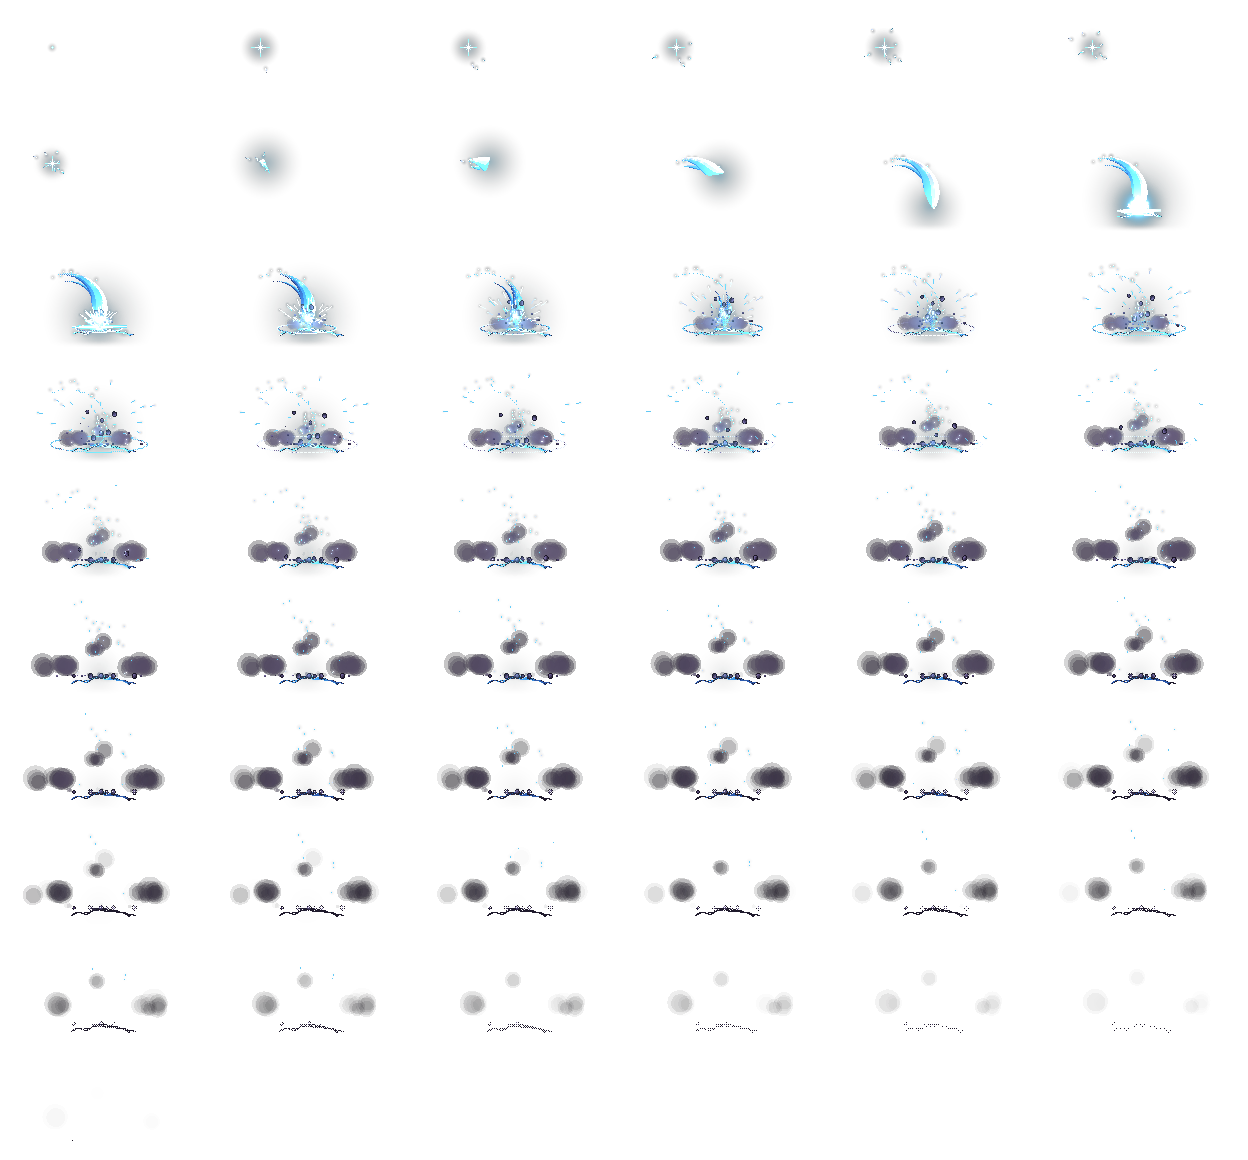
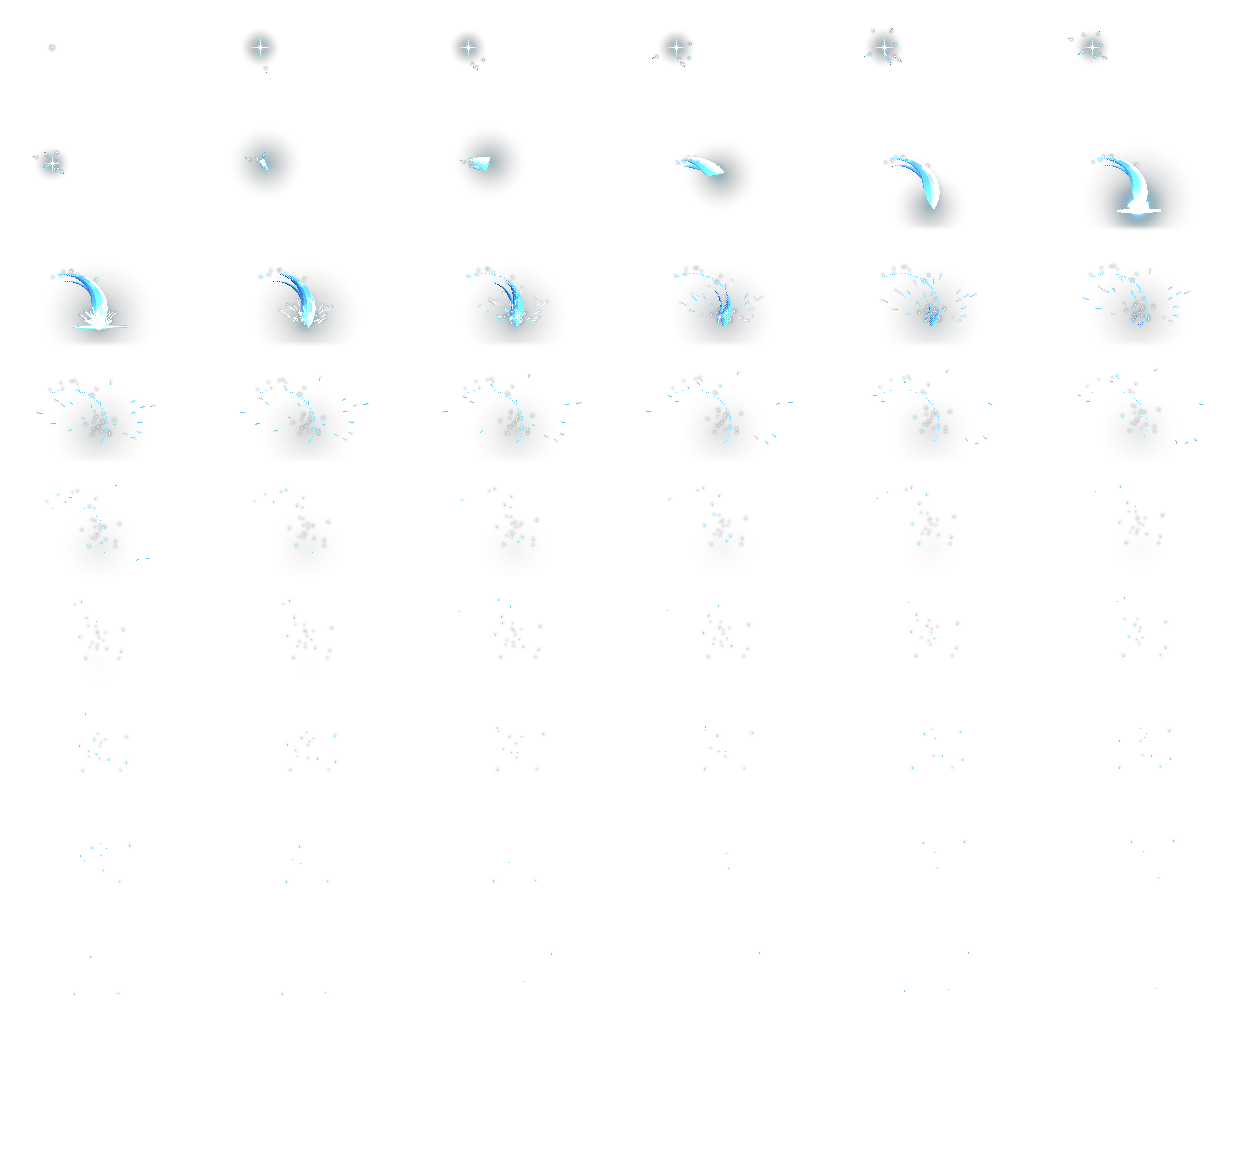
依第二次試玩調整三連擊；重劈拿掉碎裂地板
- 連按時 0.3 秒接下一擊（單按仍 0.24 秒收刀，預約後停在出刀姿勢等著接）
- 命中停頓 0.13 秒（收尾重劈 0.15 秒）
- 前兩擊擊退減半，三擊都打得到同一隻妖怪
- 新增 tools/pixelfx/melee/clean-cleave.js：heavy-cleave 拿掉裂痕、焦痕、地面震波、碎石與揚塵，build_fx.py 匯出時自動帶入

diff --git a/tools/pixelfx/melee/clean-cleave.js b/tools/pixelfx/melee/clean-cleave.js
@@ -1,0 +1,158 @@
+// The crescent and its cooling ramp are adapted from Sprite Fusion's open-source slash
+// (https://www.spritefusion.com/pixel-art-vfx/slash), and the impact star, dust, grit and embers from his
+// impact and explosion (https://www.spritefusion.com/pixel-art-vfx), MIT License, Copyright (c) 2026 Hugo Duprez.
+// Derived from pixelfx's melee/heavy-cleave for The Last Wanderer: the same arc, slam star and sparks,
+// without the cracked floor (cracks, scorch, the shock running along the floor, dust, grit and thrown stones).
+import { Particles, Bits, Lights, P, PF, B, Rng, fit, sparkle, band, clamp, smooth, ease, rand, TAU, WHITE, READY } from "../../core/index.js";
+import { swing, onSwing, smear, trace, glowAlong, stone, rock, cracks, star, sliver, along } from "./_lib.js";
+
+export const meta = {
+  name: "Clean cleave",
+  desc: "Heavy cleave without the cracked floor: a glint over the head, a thick arc over the top into the floor, a white slam, sparks and rising embers.",
+  tags: ["melee", "slash", "cleave", "axe", "heavy", "ground", "fire", "combat", "directional", "one-shot"],
+  size: [208, 116],
+  origin: [68, 96],
+  duration: 1.9,
+  loop: false,
+  fps: 30,
+  bg: "ground",
+  actor: 2,
+  options: {
+    palette: ["#2a0c10", "#5c1414", "#a3241a", "#e0481c", "#ff8a2a", "#ffc23d", "#fff0a0", "#ffffff"],
+    stone: "#4a3f69",
+    seed: 5,
+  },
+};
+
+const REST_ = { ...READY, weapon: "greatsword", two: true, sa: -1, fx: 11, fy: -21 };
+const OVER = { ...REST_, x: -4, crouch: 2, lean: -2, fx: 1, fy: -42, sa: -2.45, ffx: 8, fbx: -7 };
+const FLOOR = { ...REST_, x: 0, crouch: 7, lean: 6, fx: 17, fy: -21, sa: 0.72, ffx: 11, fbx: -10, toeB: true };
+export const act = {
+  target: { x: 66 },
+  poses: [
+    [-0.42, { ...REST_, x: -4 }],
+    [-0.3, { ...REST_, x: -3, crouch: 4, fx: 13, fy: -29, sa: -1.3 }],
+    [-0.12, { ...OVER, crouch: 4 }],
+    [0.2, { ...OVER, crouch: 3 }],
+    [0.27, { ...REST_, x: -1, y: -2, crouch: 0, lean: 2, fx: 11, fy: -42, sa: -1.45, ffx: 10, ghost: 1 }, "snap"],
+    [0.31, { ...REST_, x: 0, y: -1, crouch: 3, lean: 4, fx: 18, fy: -33, sa: -0.45, ffx: 12, ghost: 1 }, "snap"],
+    [0.335, FLOOR, "snap"],
+    [0.85, { ...FLOOR, crouch: 6, lean: 5 }],
+    [1.3, { ...REST_, x: -2, crouch: 4, lean: 2, fx: 15, fy: -23, sa: 0.1 }],
+    [1.7, { ...REST_, x: -4 }],
+  ],
+  hits: [{ t: 0.335, stop: 0.2, shake: 0.34, amp: 3, push: 3.2, straw: 28, y: -8 }],
+  dust: [{ t: 0.335, x: 18, n: 8, dir: 1 }, { t: 0.335, x: -12, n: 5, dir: -1 }],
+};
+
+const RAISE = 0.2; // the glint over the head
+const SWING = 0.135; // the arc accelerates over the top
+const HIT = RAISE + SWING;
+const HOLD = 0.05, TRAIL = 0.22;
+const head = (t) => ease.inQuad(clamp((t - RAISE) / SWING)); // fraction of the arc the edge has made
+const passedAt = (f) => RAISE + SWING * Math.sqrt(clamp(f)); // when the edge passed fraction f
+
+export function create(o) {
+  const C = fit(o.palette, 8), n = C.length, R = new Rng(o.seed), st = stone(o.stone), floor = () => 0;
+  const ps = new Particles({ rng: R, ground: floor, sparks: [C[6], C[5], C[4], C[3]] }), bits = new Bits({ ground: floor }), lights = new Lights();
+  // the arc: from behind the head, over the top, down into the floor in front
+  const A = swing({ cx: 3, cy: -22, R: 37, sy: 0.88, rot: 0.32, a0: -2.45, dir: 1 });
+  let U1 = 0;
+  while (onSwing(A, A.R, U1)[1] < -0.5 && U1 < 4) U1 += 0.005;
+  const E = { ...A, R: A.R * 0.76 }, W = 16, WE = 5;
+  const [X] = onSwing(A, A.R - 2, U1), GLINT = onSwing(A, A.R - 3, 0);
+  const lines = cracks(R, X, 4, 40, 7, 0.4);
+  // the impact star: long spikes along the floor, shorter ones up
+  const spikes = [-Math.PI, -2.7, -2.15, -1.62, -1.05, -0.45, 0].map((a, i) => ({ a: a + R.range(-0.08, 0.08), len: (i === 0 || i === 6 ? 20 : i === 3 ? 15 : 9) + R.range(0, 4), w: 1.6 + R.range(0, 0.6) }));
+  const shards = [-2.5, -1.9, -1.2, -0.6].map((a) => ({ a: a + R.range(-0.15, 0.15), r: 8 + R.range(0, 3), v: R.range(80, 130), arc: R.range(0.35, 0.6) }));
+  let t = 0, hit = false;
+
+  const arc = (p, s, w0, lag, rim) => {
+    const tt = t - lag, U = U1 * head(tt), T = U1 * smooth(HIT + HOLD, HIT + HOLD + TRAIL, tt);
+    if (U < 0.02 || T >= U - 0.02) return;
+    const gone = smooth(HIT + HOLD, HIT + HOLD + TRAIL, tt), shrink = 1 - 0.75 * gone;
+    smear(p, s, T, U, w0, (u, r, out) => {
+      const age = Math.max(0, tt - passedAt(u / U1)), v = (u - T) / (U - T);
+      const w = w0 * shrink * Math.pow(Math.sin(Math.PI * Math.pow(v, 2.2)), 0.6);
+      if (w < 0.4) return;
+      const q = (s.R - r) / w;
+      if (q < 0 || q > 1) return;
+      const ci = rim && q < 0.22 && age < 0.12 ? 0 : Math.round(q * (n - 1) * 0.62 + age * 7 + Math.max(0, tt - HIT) * 10 - v * 0.8 + (rim ? 0.7 : 1.7));
+      out.c = C[n - 1 - clamp(ci, 0, n - 1)];
+      out.a = Math.min(1, v / 0.35) * (1.2 - gone);
+    });
+    if (rim) glowAlong(p, s, s.R - w0 * 0.4, T, U, 7 + w0 * 0.5, C[4], (u) => 0.26 * Math.exp(-Math.max(0, tt - passedAt(u / U1)) / 0.2) * ((u - T) / (U - T)));
+  };
+
+  return {
+    update(dt) {
+      t += dt;
+      // heat gathers to the raised blade
+      if (t < RAISE - 0.04 && R.chance(0.35)) {
+        const a = R.range(0, TAU), D = R.range(14, 26), T = R.range(0.14, 0.2), v = (D * 3) / (Math.exp(3 * T) - 1);
+        ps.spawn(P.STREAK, GLINT[0] + Math.cos(a) * D, GLINT[1] + Math.sin(a) * D, -Math.cos(a) * v, -Math.sin(a) * v, T, R.chance(0.5) ? C[5] : C[4]);
+      }
+      // embers shed off the edge as it comes over
+      if (t > RAISE && t < HIT && R.chance(0.7)) {
+        const u = U1 * head(t) * R.range(0.6, 1), [x, y] = onSwing(A, A.R - R.range(0, 6), u);
+        ps.spawn(P.EMBER, x, y, R.range(-20, 20), R.range(-40, -10), R.range(0.5, 1.1), C[4], R.range(1, 2));
+      }
+      if (!hit && t >= HIT) {
+        hit = true;
+        lights.add(X, -6, 26, WHITE, 0.9, 0.1);
+        lights.add(X, -12, 64, C[4], 0.5, 0.8);
+        // sparks fan up off the floor, most of them forward
+        for (let i = 0; i < 26; i++) {
+          const a = -Math.PI / 2 + R.range(-1.2, 1.35), sp = R.range(140, 360);
+          ps.spawn(P.SPARK, X, -1, Math.cos(a) * sp, Math.sin(a) * sp - 40, R.range(0.15, 0.5));
+        }
+        // embers lift off the cut
+        for (let i = 0; i < 16; i++) ps.spawn(P.EMBER, X + R.range(-8, 8), -R.range(1, 6), R.range(-50, 60), -R.range(30, 110), R.range(0.7, 1.5), C[4], R.range(1, 2));
+      }
+      bits.update(dt);
+      for (const b of bits.list)
+        if (b.rest && !b.dusted) {
+          b.dusted = true;
+          for (let i = 0; i < 2; i++) ps.spawn(P.DUST, b.x + R.range(-1.5, 1.5), -0.5, R.sign() * R.range(8, 30), -R.range(2, 12), R.range(0.3, 0.6), st.dust, R.range(1.3, 2.4));
+        }
+      ps.update(dt);
+      lights.update(dt);
+    },
+    drawBack(p) {
+      ps.draw(p, "back");
+    },
+    draw(p) {
+      const q = t - HIT;
+      // the glint over the head: the raised blade catching the light
+      if (t < RAISE + 0.03) {
+        const g = ease.outBack(clamp(t / 0.1)) * (1 + 0.15 * Math.sin(t * 60)) * (t > RAISE ? 1 - (t - RAISE) / 0.03 : 1);
+        sparkle(p, GLINT[0], GLINT[1], 1 + 7 * g, C[6], C[4], 0.5);
+        p.glow(GLINT[0], GLINT[1], 22, C[4], 0.3 * g);
+      }
+      // the arc and its echo, then a dotted trace of embers where it has been
+      arc(p, E, WE, 0.02, false);
+      arc(p, A, W, 0, true);
+      const tail = U1 * smooth(HIT + HOLD, HIT + HOLD + TRAIL, t), th = 0.8 * (1 - clamp((t - HIT - HOLD) / (TRAIL + 0.25)));
+      if (tail > 0.02 && th > 0) trace(p, A, A.R - 0.5, 0, tail, C[3], (u) => th * (0.4 + 0.6 * u / U1));
+      if (t > RAISE && t < HIT + 0.05) {
+        const [x, y] = onSwing(A, A.R - 5, U1 * head(t));
+        p.glow(x, y, 40, C[4], 0.5);
+      }
+      // the white slam: an impact star flat on the floor, then slivers flying off and a hot pool
+      if (q >= 0 && q < 0.035) star(p, X, -1, spikes, 1, 1, WHITE, C[6], C[7], C[5]);
+      else if (q >= 0.035 && q < 0.07) star(p, X, -1, spikes, 1.25, 0.55, C[7], C[6], C[6], C[4]);
+      if (q >= 0.05 && q < 0.16) {
+        const k = (q - 0.05) / 0.11;
+        for (const s of shards) sliver(p, X, -1, s.a, s.r + s.v * (q - 0.05), s.arc * (1 - 0.4 * k), k < 0.4 ? C[6] : k < 0.7 ? C[5] : C[4], 1 - k);
+      }
+      if (q >= 0 && q < 0.2) {
+        const pop = Math.exp(-q / 0.05);
+        p.glow(X, -6, 30, C[5], 0.8 * pop);
+        p.glow(X, -2, 10, WHITE, 0.7 * pop);
+      }
+      for (const b of bits.list) rock(p, b, st);
+      ps.draw(p, "front");
+      lights.draw(p);
+    },
+  };
+}

diff --git a/js/entities/Player.js b/js/entities/Player.js
@@ -31,12 +31,13 @@ const PLAYER_CONFIG = Object.freeze({
   // 橫斬連段：揮刀中再按 J 預約下一擊，最多三段；不再按就在該段結束時收刀
   comboDuration: 0.24,     // 第一、二擊的長度（上劈、下劈仍是 attackDuration）
   comboInputStart: 0.05,   // 揮刀多久後開始接受下一擊的輸入
-  comboChainTime: 0.19,    // 預約後最早在這個時間點接上下一擊
+  comboChainTime: 0.3,     // 連按時在這個時間點接上下一擊（比單按的收刀晚，預約了就停在出刀姿勢等著接）
   comboWindow: 0.3,        // 收刀後仍可接續下一擊的時間
   attackBufferTime: 0.25,  // J 的輸入緩衝（命中停頓期間按下也不會漏掉）
   finisherDuration: 0.44, finisherWindow: [0.09, 0.21], finisherCooldown: 0.55,   // 重劈後多停一下，壓低身子收勢
   finisherDamage: 2, finisherBox: { width: 84, height: 64, offsetY: 6 },
   finisherStep: [0.07, 0.15], finisherStepSpeed: 230, finisherKnockback: 1.7,
+  comboKnockback: 0.5,     // 前兩擊的擊退減半，敵人留在下一擊的範圍內
   attackBox: { width: 64, height: 60, offsetY: 8 },
   // 上劈 / 下劈：判定時間與判定框（相對於角色中心與頭頂）
   attackWindows: { side: [0.04, 0.16], up: [0.06, 0.2], down: [0.04, 0.24] },
@@ -310,7 +311,7 @@ class Player extends Entity {
       }
       if (this.comboQueued && this.stateTime >= cfg.comboChainTime) {
         this._beginAttack(this.comboStep + 1, move, game);
-      } else if (this.stateTime >= (this.isFinisher() ? cfg.finisherDuration : this.comboStep > 0 ? cfg.comboDuration : cfg.attackDuration)) {
+      } else if (!this.comboQueued && this.stateTime >= (this.isFinisher() ? cfg.finisherDuration : this.comboStep > 0 ? cfg.comboDuration : cfg.attackDuration)) {
         this._endAttack();
         // 揮刀結束時仍按住 J → 進入蓄力（需取得「居合之卷」）
         if (!locked && this.abilities.chargeSlash && input.isDown('attack')) this._startCharge(game);

diff --git a/js/Game.js b/js/Game.js
@@ -246,7 +246,7 @@ class Game {
 
   /** heavy：連段收尾、螺旋斬最後一斬，改用較大的爆擊火花 */
   onEnemyHit(enemy, killed, direction = this.player.facing, { damage = 1, heavy = false } = {}) {
-    this.hitstop = killed ? 0.11 : 0.07;
+    this.hitstop = 0.13;
     this.camera.shake(killed ? 4 : 2.5, 0.15);
     const hx = direction > 0 ? enemy.x : enemy.x + enemy.width;
     const spark = this.fx.play(heavy ? 'crit' : 'hitSpark', hx, enemy.centerY, { flipX: direction < 0 });

diff --git a/js/systems/Combat.js b/js/systems/Combat.js
@@ -34,6 +34,9 @@ const Combat = {
           game.hitstop = Math.max(game.hitstop, 0.1);
           game.camera.shake(5, 0.2);
         }
+        if (player.state === PLAYER_STATES.ATTACK && player.comboStep > 0 && !player.isFinisher()) {
+          enemy.velocityX *= player.cfg.comboKnockback;
+        }
         if (player.isFinisher()) {
           // 連段收尾：擊退更遠、停頓更久
           enemy.velocityX *= player.cfg.finisherKnockback;

diff --git a/data/fxsheets.js b/data/fxsheets.js
@@ -67,7 +67,7 @@ window.FX_SHEETS = {
       68,
       96
     ],
-    "source": "melee/heavy-cleave",
+    "source": "melee/clean-cleave",
     "hits": [
       {
         "t": 0.335,

diff --git a/tools/build_fx.py b/tools/build_fx.py
@@ -6,6 +6,7 @@
     python tools/build_fx.py <pixelfx 資料夾>
 
 要換特效、換色或增減連擊數，改下面的 SHEETS 後重新執行即可。
+tools/pixelfx/ 裡是本專案自己修改過的 pixelfx 特效，匯出前會先複製進 pixelfx 的 src/fx/。
 """
 import json, os, shutil, subprocess, sys, tempfile
 
@@ -22,7 +23,7 @@ GOLD = ["#1a1205", "#3d2a0a", "#70501a", "#b08a2f", "#f5c84c", "#ffe3a8", "#fff4
 SHEETS = {
     'slash': ('melee/sword-slash', {}),                    # 三連擊第一擊：斜劈；轉 90 度成上劈 / 下劈
     'cross': ('melee/double-slash', {'palette': ICE}),     # 三連擊第二擊：交叉雙斬（換成冰藍色）
-    'cleave': ('melee/heavy-cleave', {'palette': ICE}),    # 三連擊第三擊：雙手重劈（換成冰藍色）
+    'cleave': ('melee/clean-cleave', {'palette': ICE}),    # 三連擊第三擊：雙手重劈（拿掉碎裂地板的版本，換成冰藍色）
     'hitSpark': ('impacts/hit-spark', {}),
     'crit': ('impacts/crit-hit', {}),                      # 收尾、螺旋斬最後一斬
     'parry': ('impacts/parry', {}),                        # 一般攻擊砍到冰壁
@@ -31,6 +32,13 @@ for n in (1, 2):
     SHEETS[f'dmg{n}'] = ('ui/damage-number', {'text': f'-{n}'})
 for n in range(2, 21):
     SHEETS[f'combo{n}'] = ('ui/combo-counter', {'count': n, 'palette': GOLD}, 20)   # 20 fps：檔案小一點
+
+# 本專案修改過的特效（tools/pixelfx/<分類>/<名稱>.js）
+CUSTOM = os.path.join(GAME, 'tools', 'pixelfx')
+for root, _, files in os.walk(CUSTOM):
+    for f in files:
+        rel = os.path.relpath(os.path.join(root, f), CUSTOM)
+        shutil.copy(os.path.join(root, f), os.path.join(PFX, 'src', 'fx', rel))
 
 shutil.rmtree(OUT, ignore_errors=True)
 dst_dir = os.path.join(GAME, 'assets', 'fx')

diff --git a/README.md b/README.md
@@ -85,8 +85,10 @@ python serve.py
 - **表現**：程序化像素美術、多層視差背景、寒霧、飄雪、粒子、Web Audio 合成音效與風聲
 - **pixelfx 特效**（[patch-gg/pixelfx](https://github.com/patch-gg/pixelfx)，MIT）：
   - 三連擊的動作取自 pixelfx 的 `moves/sword-combo`：斜劈、交叉雙斬、雙手重劈。姿勢由 `node tools/sample_combo.mjs <pixelfx 資料夾>` 取樣到 `data/swordcombo.js`，在 `js/art/Sprites.js` 的 `comboPose()` 放大 2 倍轉套到劍客身上（另用 240×160 的畫格）
-  - 節奏：`Player.js` 的 `COMBO_TIMING` 只取 pixelfx 時間軸上「刀舉到最高 → 出刀後停住」那一段，壓縮到遊戲的「開始、判定開始、收刀」；第一、二擊 0.24 秒（0.19 秒後可接下一擊）、收尾重劈 0.44 秒，劍客原地揮刀不前後位移
+  - 節奏：`Player.js` 的 `COMBO_TIMING` 只取 pixelfx 時間軸上「刀舉到最高 → 出刀後停住」那一段，壓縮到遊戲的「開始、判定開始、收刀」；單按一擊 0.24 秒收刀，連按時 0.3 秒接下一擊，收尾重劈 0.44 秒；前兩擊擊退減半，三擊都打得到同一隻妖怪；劍客原地揮刀不前後位移
   - 刀光：三連擊用對應的 pixelfx 刀光（斜劈、冰藍色交叉雙斬、冰藍色雙手重劈）；上劈、下劈把斜劈的刀光轉 90 度
+  - 雙手重劈用的是本專案修改過的 `tools/pixelfx/melee/clean-cleave.js`：由 pixelfx 的 heavy-cleave 拿掉碎裂地板（裂痕、焦痕、地面震波、碎石、揚塵），匯出時自動帶入
+  - 命中停頓：一般命中 0.13 秒、收尾重劈 0.15 秒
   - 命中：一般命中是打擊火花，連段收尾與螺旋斬最後一斬是爆擊火花；一般攻擊砍到冰壁是格擋火花
   - 傷害數字（-1、-2）從敵人頭上彈出；1.2 秒內連續命中兩次以上，畫面右上顯示金色連擊數（最多 x20）
   - 刀光從 act 資料的命中時間開始播，命中停頓時定格在最亮的那一格；圖檔還沒載入時自動退回程式畫的刀光
@@ -103,6 +105,7 @@ data/parkour01.js 跑酷挑戰的賽道資料（格式相同）
 data/fxsheets.js  pixelfx 特效的 sprite sheet 資料（由 tools/build_fx.py 產生）
 assets/fx/      pixelfx 特效圖檔，以及 pixelfx 的 LICENSE 與 NOTICE
 tools/build_fx.py 從 pixelfx 匯出特效
+tools/pixelfx/  本專案修改過的 pixelfx 特效（匯出時複製進 pixelfx）
 tools/sample_combo.mjs 取樣 pixelfx 三連擊的姿勢
 data/swordcombo.js 三連擊的姿勢資料（由 tools/sample_combo.mjs 產生）
 js/
